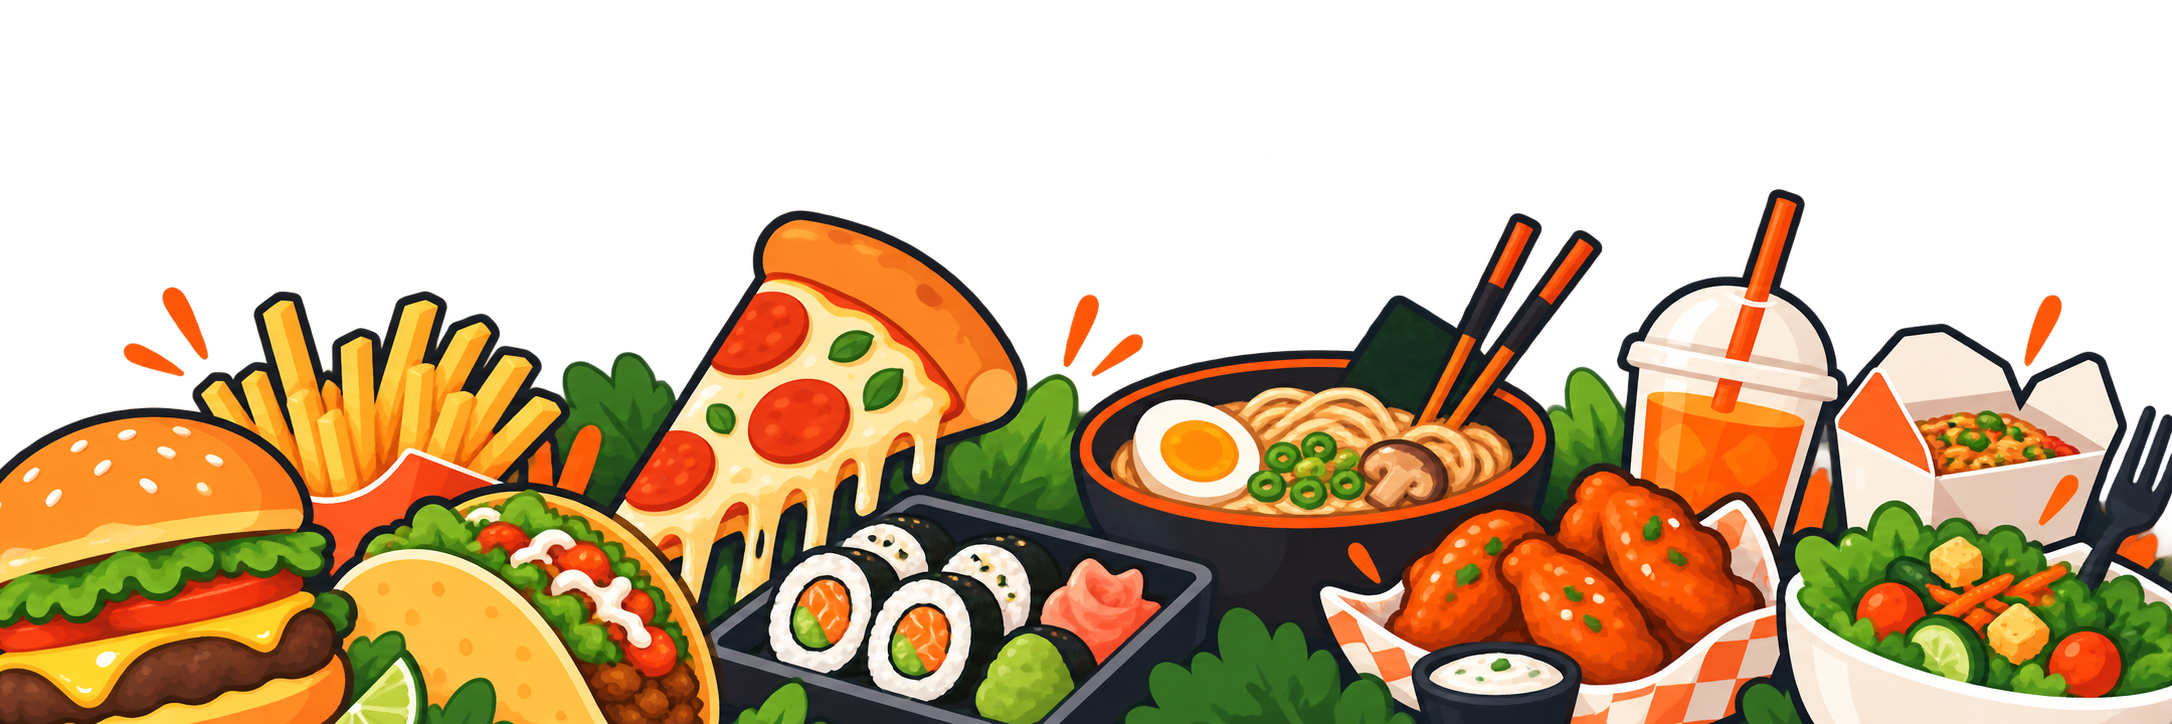
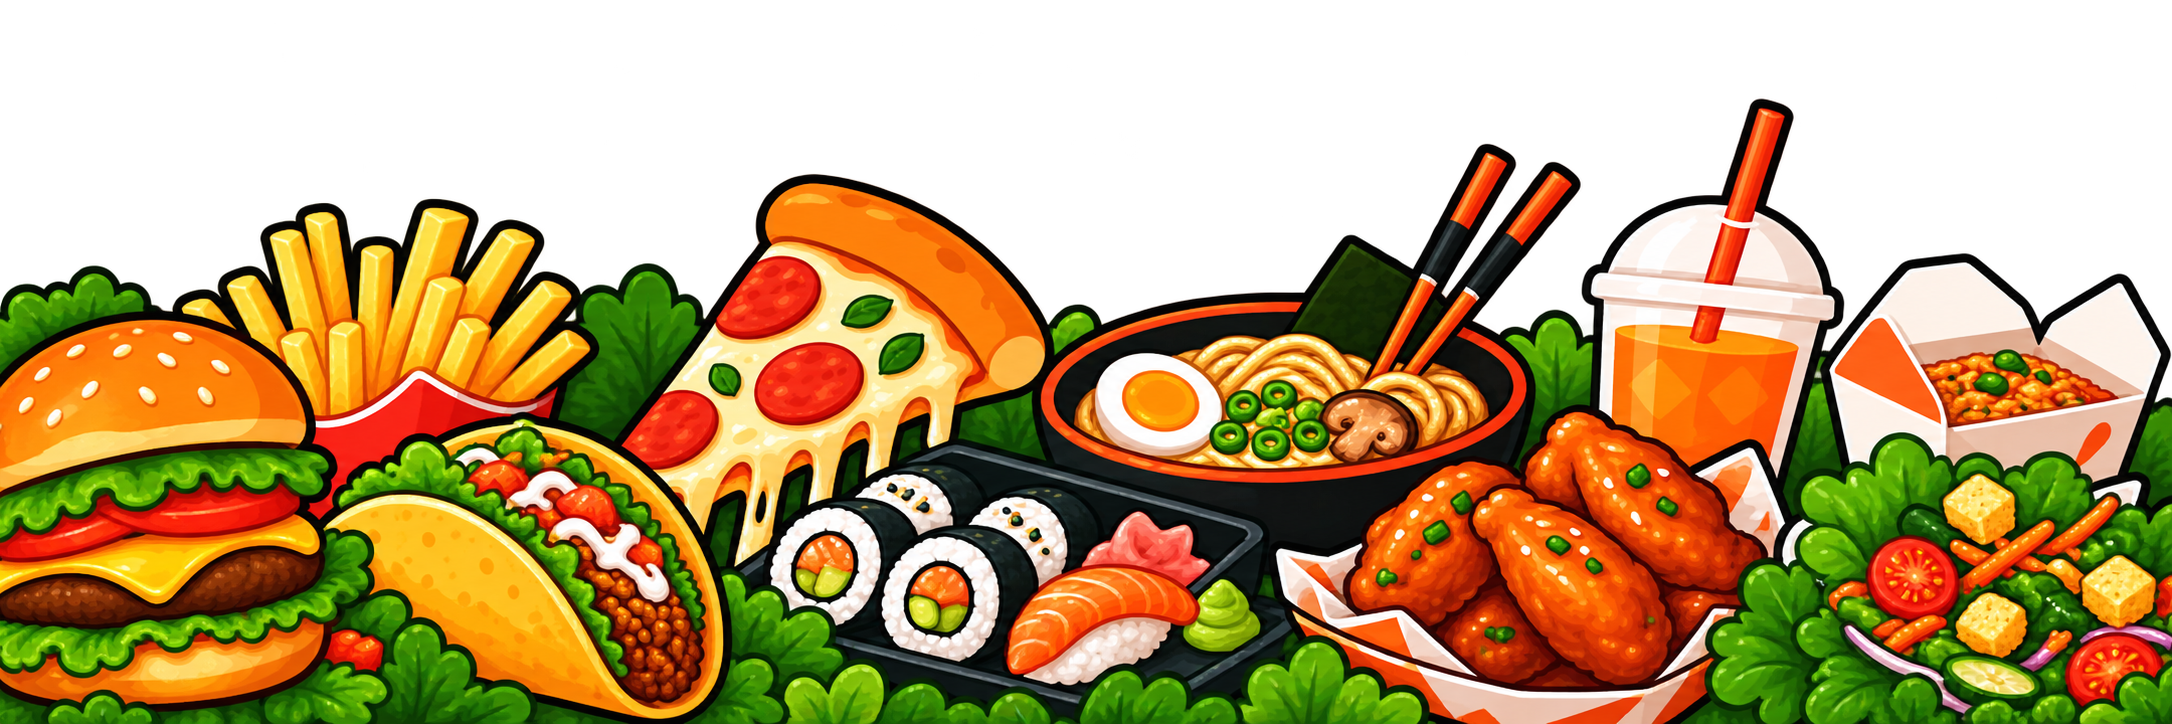
login/signup buttons on header

diff --git a/frontend/src/components/layout/AppHeader.tsx b/frontend/src/components/layout/AppHeader.tsx
@@ -5,9 +5,11 @@ import './AppHeader.css'
 type AppHeaderProps = {
   onHowItWorks: () => void
   onJoinLobby: () => void
+  onLogin: () => void
+  onSignUp: () => void
 }
 
-export function AppHeader({ onHowItWorks, onJoinLobby }: AppHeaderProps) {
+export function AppHeader({ onHowItWorks, onJoinLobby, onLogin, onSignUp }: AppHeaderProps) {
   return (
     <header className="app-header">
       <a className="skip-link" href="#main-content">Skip to main content</a>
@@ -19,6 +21,8 @@ export function AppHeader({ onHowItWorks, onJoinLobby }: AppHeaderProps) {
           <TextAction href="./" tone="nav" current>Home</TextAction>
           <TextAction tone="nav" onClick={onHowItWorks}>How it works</TextAction>
           <TextAction tone="nav" onClick={onJoinLobby}>Enter lobby code</TextAction>
+          <TextAction tone="nav" onClick={onLogin}>Login</TextAction>
+          <TextAction tone="nav" onClick={onSignUp}>Signup</TextAction>
         </nav>
       </div>
       <div className="app-header__divider" />

diff --git a/frontend/src/components/home/HomeScreen.tsx b/frontend/src/components/home/HomeScreen.tsx
@@ -7,9 +7,11 @@ type HomeScreenProps = {
   onCreateLobby: () => void
   onJoinLobby: () => void
   onHowItWorks: () => void
+  onLogin: () => void
+  onSignUp: () => void
 }
 
-export function HomeScreen({ onCreateLobby, onJoinLobby, onHowItWorks }: HomeScreenProps) {
+export function HomeScreen({ onCreateLobby, onJoinLobby, onHowItWorks}: HomeScreenProps) {
   return (
     <div className="home-screen">
       <AppHeader onHowItWorks={onHowItWorks} onJoinLobby={onJoinLobby} />

diff --git a/frontend/vite.config.ts b/frontend/vite.config.ts
@@ -9,11 +9,11 @@ export default defineConfig({
     strictPort: true,
     proxy: {
       "/api": {
-        target: "http://localhost:5000",
+        target: "http://localhost:3000",
         changeOrigin: true,
       },
       "/api-docs": {
-        target: "http://localhost:5000",
+        target: "http://localhost:3000",
         changeOrigin: true,
       },
     },
